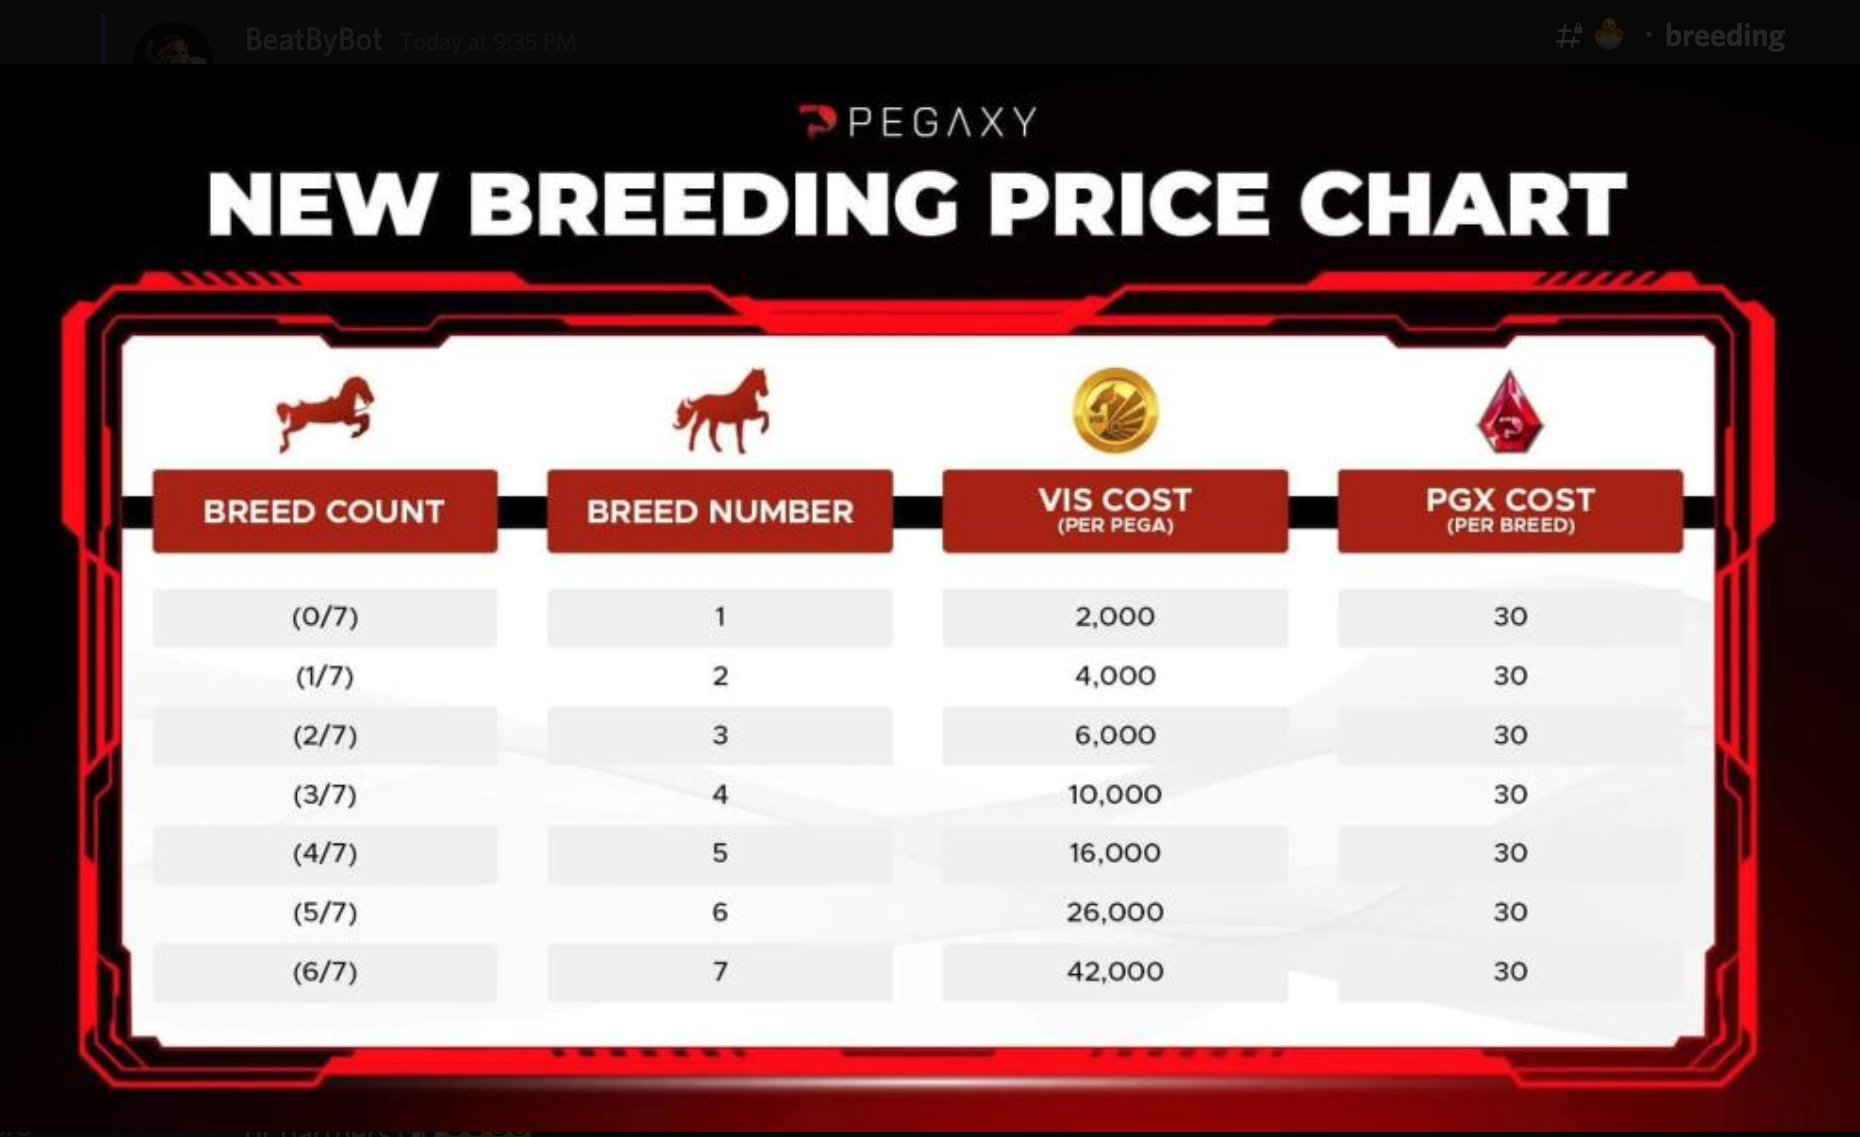
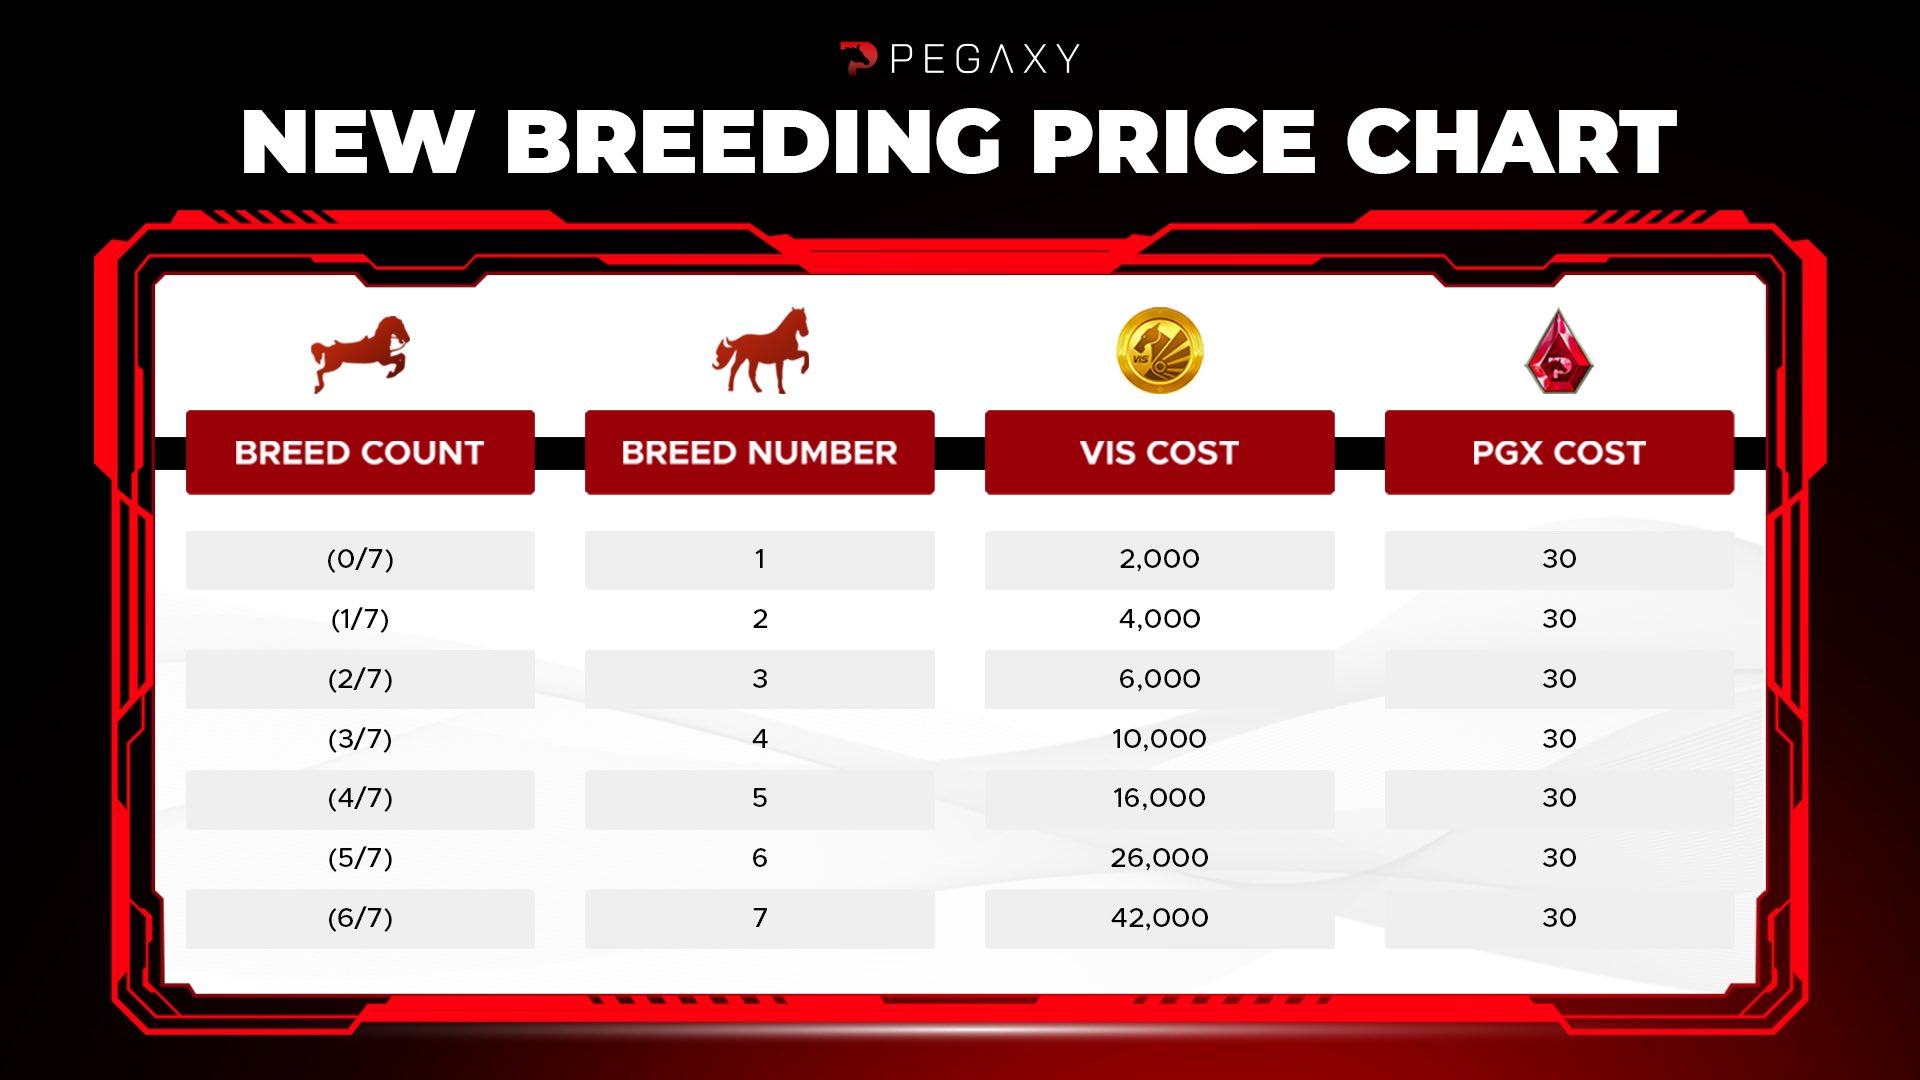
segunda entrega proyecto final

diff --git a/js/javascript.js b/js/javascript.js
@@ -12,7 +12,7 @@ function addToHistoryBtnFunction(){
     addToHistory()
 }
 
-const calcHistory = []
+const calcHistory = JSON.parse(localStorage.getItem("calcHistory")) || []
 let motherBreeds
 let fatherBreeds
 let motherVIScost
@@ -29,7 +29,7 @@ let bornPegaKind
 //class for constructing search history objects to go into the array
 class Search{
     constructor(motherBreeds, motherVIScost, motherPGXcost, fatherBreeds, fatherVIScost, fatherPGXcost, totalVIScost, totalPGXcost, totalCost){
-        this.calcDate = new Date() //adds current date to every calculation
+        this.calcDate = new Date //adds current date to every calculation
         this.motherBreeds = motherBreeds
         this.motherVIScost = motherVIScost
         this.motherPGXcost = motherPGXcost
@@ -65,8 +65,7 @@ function calculate(){
         break;
         case 6: motherVIScost=42000
         break;
-        default: alert("Please enter a valid breed count.")
-        motherVIScost = "Invalid breed count"
+        default: motherVIScost = "Invalid breed count"
     }
     switch(fatherBreeds)
     {
@@ -84,8 +83,7 @@ function calculate(){
         break;
         case 6: fatherVIScost=42000
         break;
-        default: alert("Please enter a valid breed count.")
-        fatherVIScost = "Invalid breed count"
+        default: fatherVIScost = "Invalid breed count"
     }
 
     //to be displayed under VIS cost:
@@ -145,28 +143,38 @@ function calculate(){
         }
     }
     else {
-        bornPegaKind = "-"
-        alert("Please select parent pega kinds.")
+        bornPegaKind = "Please, select parent pega kinds"
     }
 }
 
+
+//Add to history button:
 function addToHistory() //will use JSON in order to save calcHistory to localStorage
 {
+    const messageContainer = document.getElementById("messageContainer")
+    messageContainer.innerHTML = ""
+
     if (!isNaN(totalCost))
     {
         calcHistory.push(new Search(motherBreeds, motherVIScost, motherPGXcost, fatherBreeds, fatherVIScost, fatherPGXcost, totalVIScost, totalPGXcost, totalCost))
-        alert("Save successful!")
+        localStorage.setItem("calcHistory", JSON.stringify(calcHistory))
+
+        const message = document.createElement("p")
+        message.innerHTML = "<br>Save successful!"
+        messageContainer.appendChild(message)
+        setTimeout(() => message.style.display = "none", 2000)
     }
     else
     {
-        alert("You cannot save an invalid breed count.")
+        const message = document.createElement("p")
+        message.innerHTML = "<br>You cannot save an invalid breed count!"
+        messageContainer.appendChild(message)
+        setTimeout(() => message.style.display = "none", 2000)
     }
-    
 }
 
 
-//DOM:
-
+//Calculation DOM display:
 function loadDOM()
 {
     if (motherBreeds !== undefined || fatherBreeds !== undefined)
@@ -183,7 +191,7 @@ function loadDOM()
         const pegaKindTile = document.getElementById("pegaKindTile")
         pegaKindTile.innerText = `${bornPegaKind}`
     }
-    else //this is the inital DOM load, since motherBreeds and fatherBreeds won't return undefined but rather NaN upon calculation
+    else //this is the inital DOM load
     {
         const PGXCostTile = document.getElementById("PGXCostTile")
         PGXCostTile.innerText =`${motherPGXcost} | ${fatherPGXcost}`
@@ -205,13 +213,49 @@ let calculateBtn
 let addToHistoryBtn
 
 function loadButtons(){
-calculateBtn = document.getElementById("calculateBtn")
-addToHistoryBtn = document.getElementById("addToHistoryBtn")
+    calculateBtn = document.getElementById("calculateBtn")
+    addToHistoryBtn = document.getElementById("addToHistoryBtn")
 
-calculateBtn.onclick = () => {calculateBtnFunction()}
-addToHistoryBtn.onclick = () => {addToHistoryBtnFunction()}
+    calculateBtn.onclick = () => {calculateBtnFunction()}
+    addToHistoryBtn.onclick = () => {addToHistoryBtnFunction()}
 }
 
+//History page:
+function createTable() {
+    const tableContainer = document.getElementById("calcHistoryTable")
+    const table = document.createElement("table")
+    table.className = "table"
+    table.innerHTML =
+    `<thead>
+      <tr>
+        <th>Date</th>
+        <th>Mother breeds</th>
+        <th>Mother VIS cost</th>
+        <th>Father breeds</th>
+        <th>Father VIS cost</th>
+        <th>PGX cost</th>
+        <th>Total cost</th>
+      </tr>
+     </thead>`
+    tableContainer.append(table)
+
+    if (calcHistory.length > 0) {
+        calcHistory.forEach((el) => {
+        row = table.insertRow()
+        row.insertCell().innerHTML =`${el.calcDate.substr(0, 10)}`
+        row.insertCell().innerHTML =`${el.motherBreeds}`
+        row.insertCell().innerHTML =`${el.motherVIScost}`
+        row.insertCell().innerHTML =`${el.fatherBreeds}`
+        row.insertCell().innerHTML =`${el.fatherVIScost}`
+        row.insertCell().innerHTML =`${el.totalPGXcost}`
+        row.insertCell().innerHTML =`${el.totalCost}`})
+    }
+    else{
+        let emptyHistoryMessage = document.createElement("p")
+        emptyHistoryMessage.innerHTML = "<h3 class='text-center'> Nothing to see here... Yet!</h3>"
+        tableContainer.appendChild(emptyHistoryMessage)
+    }
+}
 
 
 

diff --git a/about.html b/about.html
@@ -1,0 +1,72 @@
+<!DOCTYPE html>
+<html lang="en">
+<head>
+    <meta charset="UTF-8">
+    <meta http-equiv="X-UA-Compatible" content="IE=edge">
+    <meta name="viewport" content="width=device-width, initial-scale=1.0">
+    <title>Pegaxy breeding calculator</title>
+    <link rel="stylesheet" href="css/bootstrap.min.css">
+    <link rel="stylesheet" href="css/styles.css">
+    <link rel="preconnect" href="https://fonts.googleapis.com">
+    <link rel="preconnect" href="https://fonts.gstatic.com" crossorigin>
+    <link href="https://fonts.googleapis.com/css2?family=Ubuntu&display=swap" rel="stylesheet">
+    <script src="js/jquery-3.6.0.min.js"></script>
+    <script src="js/bootstrap.min.js"></script>
+    <script src="js/javascript.js"></script>
+</head>
+
+<body>
+    <header>
+        <nav id="header" class="navbar navbar-default">
+            <div class="container-fluid">
+                <div class="navbar-header">
+                    <a href="index.html" class="pull-left">
+                        <div id="logo"></div>
+                    </a>
+                    <div class="navbar-brand">
+                        <a id="pageTitle" href="index.html"><h1>Pegaxy Breeding Calculator</h1></a>
+                    </div>      
+                </div>
+                <div>
+                    <ul id="nav-list" class="nav navbar-nav navbar-right">
+                        <li>
+                            <a href="calchistory.html">History</a>
+                        </li>
+                        <li>
+                            <a href="about.html">About</a>
+                        </li>
+                        
+                    </ul>
+                </div>
+            </div>
+        </nav>
+    </header>
+
+    <div class="container">
+        <div class="row">
+            <div class="col-sm-12">
+                <h3 id="aboutDisclaimer" class="text-center">Here, you can see the source of breeding costs and lineage inheritance patterns used for calculation.
+                    <br><br>
+                These were provided from the official Pegaxy discord channel and their Twitter account.</h3>
+                <div class="aboutTile">
+                    <img src="images/Breeding_Chart.jpeg">
+                </div>
+                <div class="aboutTile">
+                    <img src="images/bloodlines.png">
+                </div>
+            </div>
+        </div>
+    </div>
+
+
+    <footer class="panel-footer" id="footer-x">
+        <div class="container">
+            <div class="row">
+                <div class="col-sm-12">
+                    <p class="text-center">&copy; Yukatana 2022</p>
+                </div>
+            </div>
+        </div>
+    </footer>
+</body>
+</html>

diff --git a/calchistory.html b/calchistory.html
@@ -1,0 +1,66 @@
+<!DOCTYPE html>
+<html lang="en">
+<head>
+    <meta charset="UTF-8">
+    <meta http-equiv="X-UA-Compatible" content="IE=edge">
+    <meta name="viewport" content="width=device-width, initial-scale=1.0">
+    <title>Pegaxy breeding calculator</title>
+    <link rel="stylesheet" href="css/bootstrap.min.css">
+    <link rel="stylesheet" href="css/styles.css">
+    <link rel="preconnect" href="https://fonts.googleapis.com">
+    <link rel="preconnect" href="https://fonts.gstatic.com" crossorigin>
+    <link href="https://fonts.googleapis.com/css2?family=Ubuntu&display=swap" rel="stylesheet">
+    <script src="js/jquery-3.6.0.min.js"></script>
+    <script src="js/bootstrap.min.js"></script>
+    <script src="js/javascript.js"></script>
+</head>
+
+<body onload="createTable()">
+    <header>
+        <nav id="header" class="navbar navbar-default">
+            <div class="container-fluid">
+                <div class="navbar-header">
+                    <a href="index.html" class="pull-left">
+                        <div id="logo"></div>
+                    </a>
+                    <div class="navbar-brand">
+                        <a id="pageTitle" href="index.html"><h1>Pegaxy Breeding Calculator</h1></a>
+                    </div>      
+                </div>
+                <div>
+                    <ul id="nav-list" class="nav navbar-nav navbar-right">
+                        <li>
+                            <a href="calchistory.html">History</a>
+                        </li>
+                        <li>
+                            <a href="about.html">About</a>
+                        </li>
+                        
+                    </ul>
+                </div>
+            </div>
+        </nav>
+    </header>
+
+    <div class="container">
+        <div class="row">
+            <div class="col-sm-12">
+                <div id="calcHistoryTable">
+
+                </div>
+            </div>
+        </div>
+    </div>
+
+
+    <footer class="panel-footer" id="footer-x">
+        <div class="container">
+            <div class="row">
+                <div class="col-sm-12">
+                    <p class="text-center">&copy; Yukatana 2022</p>
+                </div>
+            </div>
+        </div>
+    </footer>
+</body>
+</html>

diff --git a/index.html b/index.html
@@ -24,14 +24,18 @@
                         <div id="logo"></div>
                     </a>
                     <div class="navbar-brand">
-                        <a href="index.html"><h1>Pegaxy Breeding Calculator</h1></a>
+                        <a id="pageTitle" href="index.html"><h1>Pegaxy Breeding Calculator</h1></a>
                     </div>      
                 </div>
                 <div>
                     <ul id="nav-list" class="nav navbar-nav navbar-right">
                         <li>
+                            <a href="calchistory.html">History</a>
+                        </li>
+                        <li>
                             <a class="" href="about.html">About</a>
                         </li>
+                        
                     </ul>
                 </div>
             </div>
@@ -83,9 +87,10 @@
                     </div>
                 <h4 class="text-center">Pega kind:</h4>
                     <div id="pegaKindTile" class="text-center"><!-- insert pega type algorithm --></div>
-                <div class="text-center">
+                <div id="buttonsTile" class="text-center">
                     <button id="calculateBtn" type="button" class="btn btn-outline-secondary">Calculate</button>
                     <button id="addToHistoryBtn" type="button" class="btn btn-outline-secondary">Save to history</button>
+                    <div id="messageContainer"></div>
                 </div>
             </div>
             <div class="col-sm-4">

diff --git a/css/styles.css b/css/styles.css
@@ -3,20 +3,21 @@ body {
     font-family: 'Ubuntu', sans-serif;
 }
 
+#pageTitle:hover {
+    text-decoration: none;
+}
+
 #header {
     background-color: #c9356c;
     border: 0;
     border-radius: 0;
+    padding-right: 50px;
+    padding-left: 50px;
 }
 
 #logo {
     height: 90px;
     width: 90px;
-}
-
-#header {
-    padding-right: 50px;
-    padding-left: 50px;
 }
 
 #nav-list li a {
@@ -101,4 +102,19 @@ footer p {
     color: white;
     padding-top: 5px;
     font-size: 1.1em;
+}
+
+/* CALC HISTORY TABLE */
+#calcHistoryTable {
+    height: 515px;
+}
+
+/* ABOUT */
+.aboutTile img {
+    width: 100%;
+}
+
+#aboutDisclaimer {
+    margin-top: 50px;
+    margin-bottom: 70px;
 }
